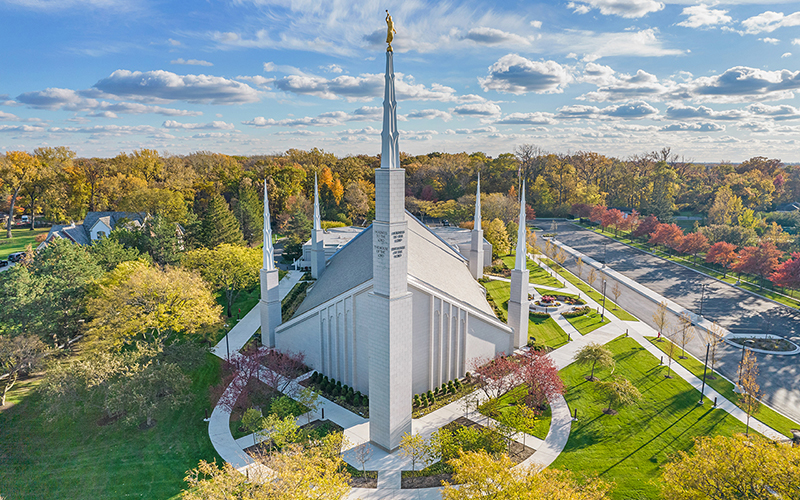
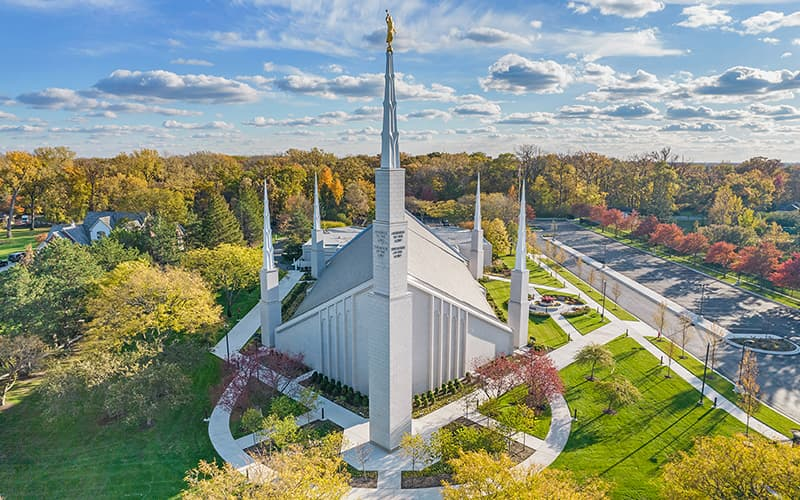
Fix W02 meta author and Google Fonts

diff --git a/temples.html b/temples.html
@@ -8,10 +8,13 @@
     <!-- SEO Improvement -->
     <meta name="description"
         content="Temple Album showcasing temples from around the world including Buenos Aires, Rome, Salt Lake, and more.">
+    <meta name="author" content="Franco Almada">
 
     <title>Temple Album | Responsive Gallery of LDS Temples</title>
 
     <!-- Google Fonts -->
+    <link rel="preconnect" href="https://fonts.googleapis.com">
+    <link rel="preconnect" href="https://fonts.gstatic.com" crossorigin>
     <link href="https://fonts.googleapis.com/css2?family=Roboto&family=Playfair+Display&display=swap" rel="stylesheet">
 
     <!-- CSS -->
